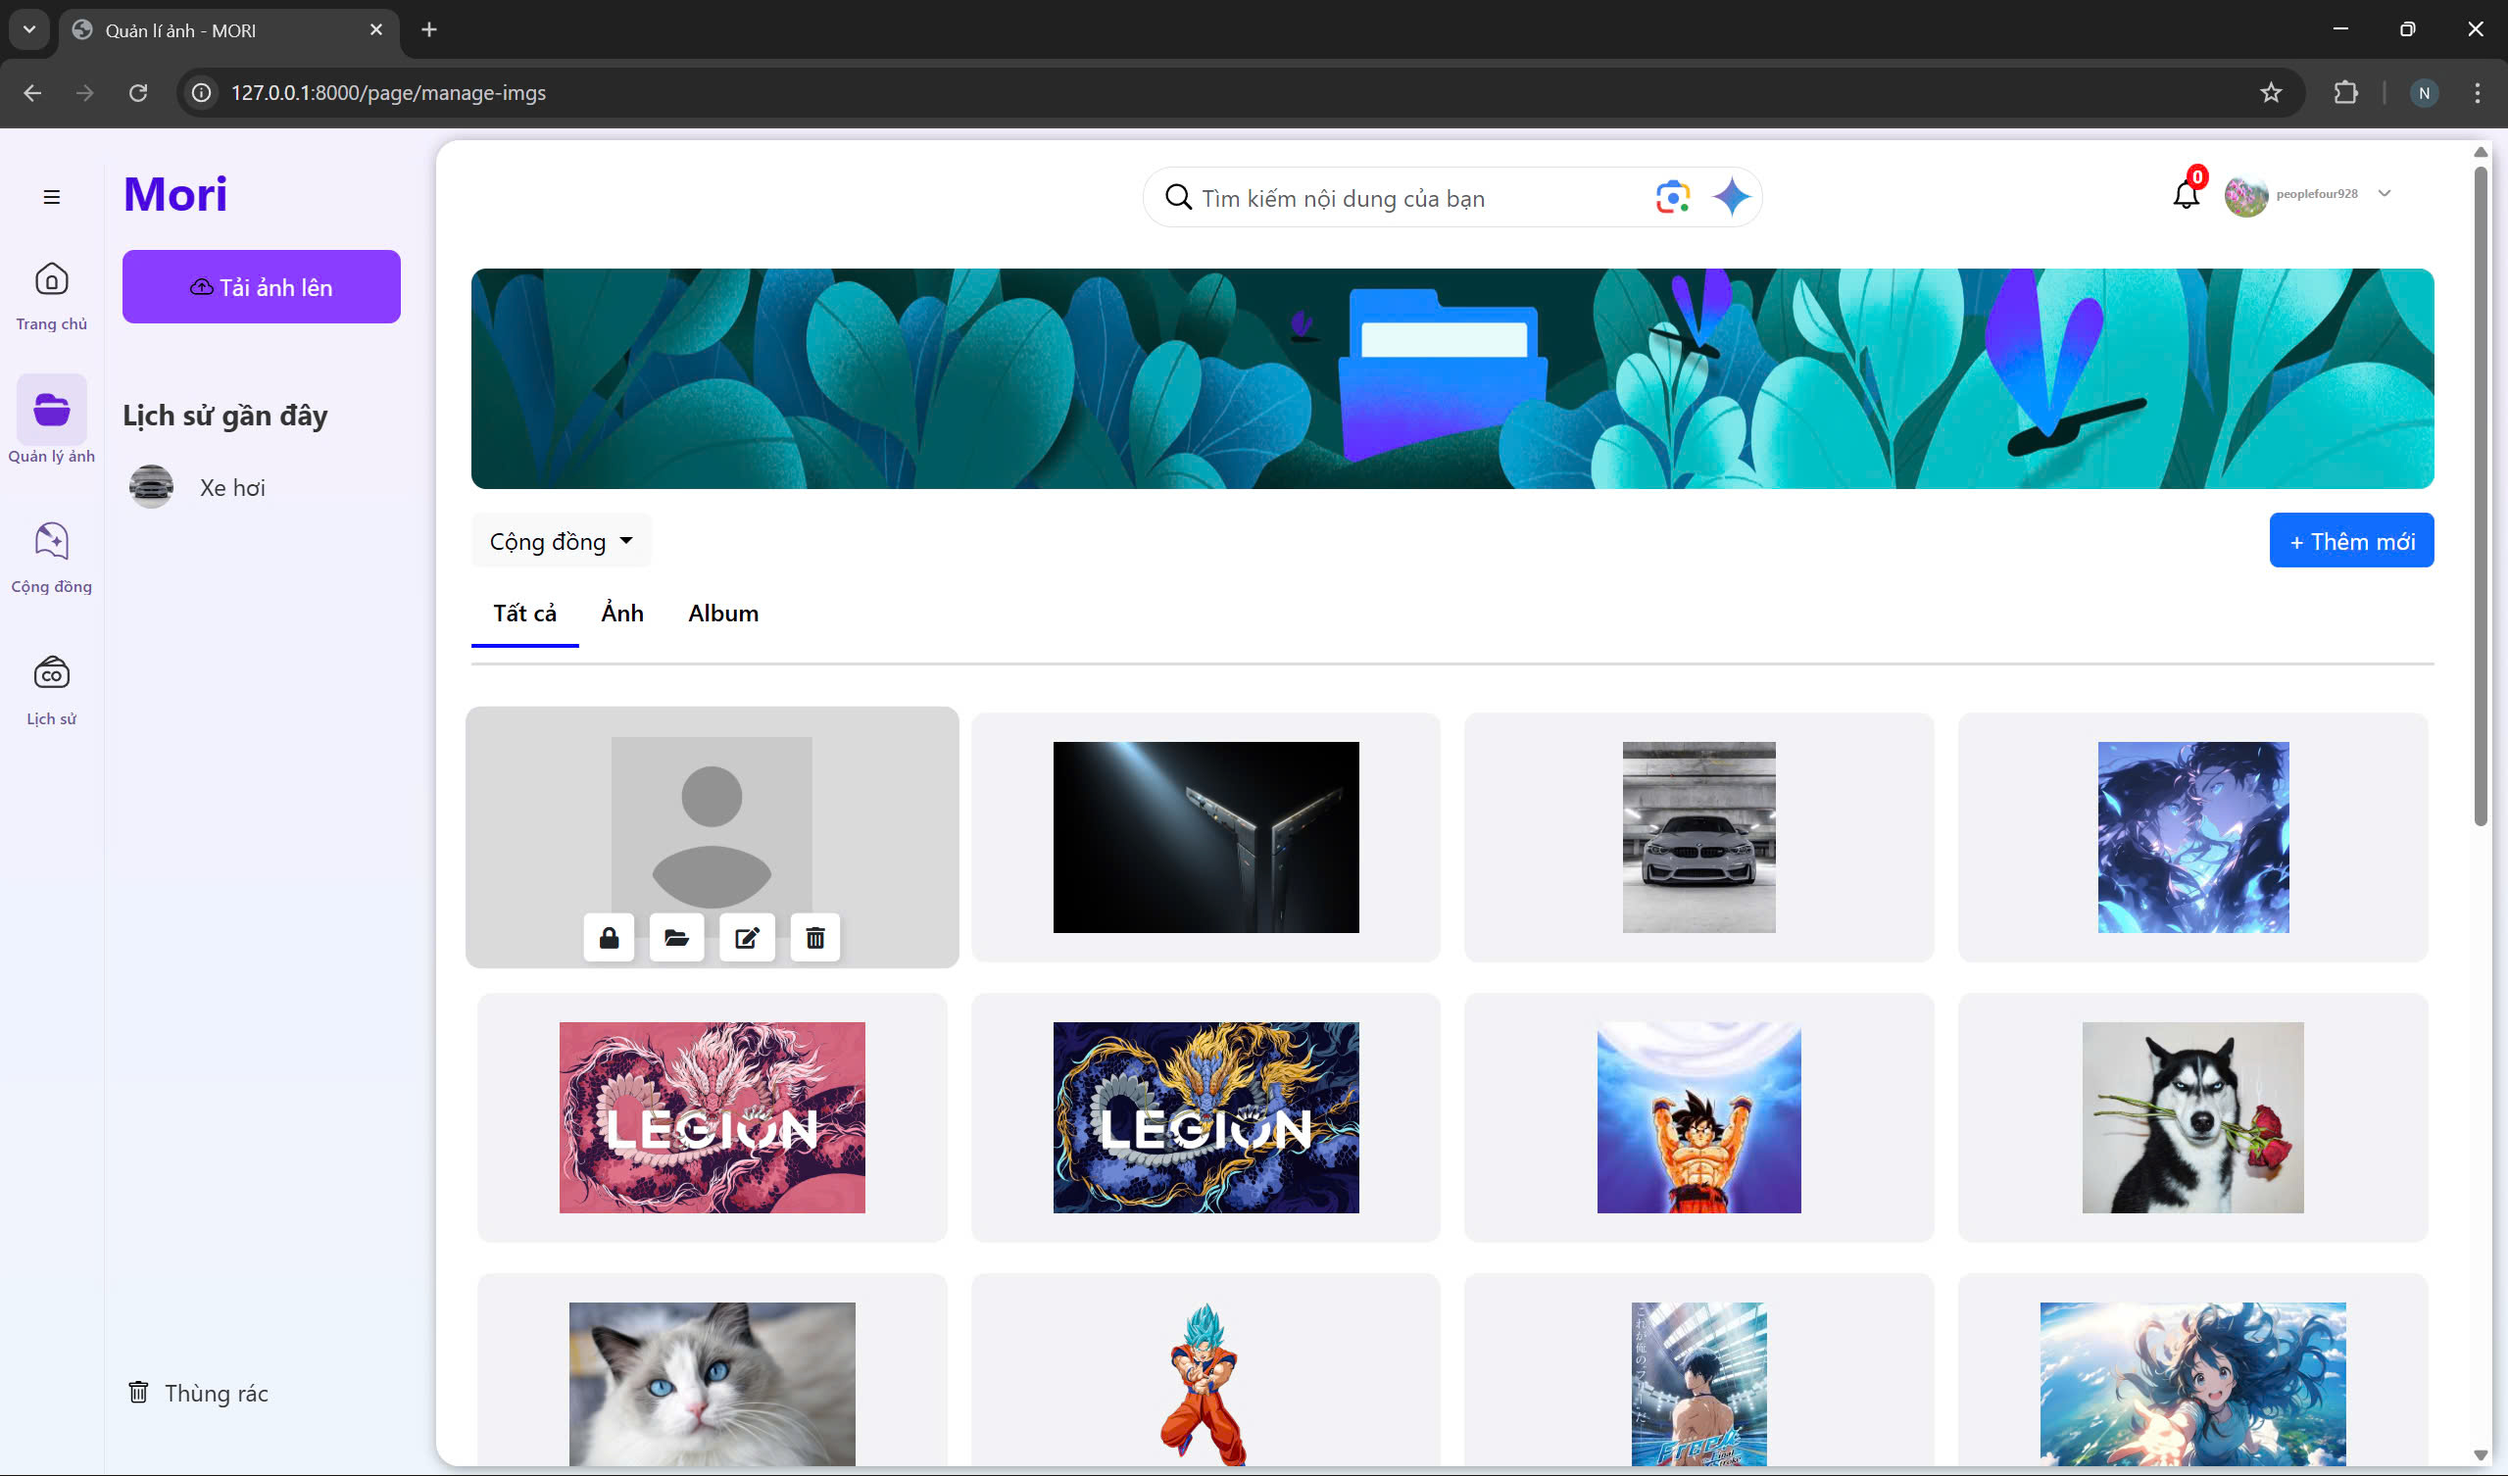
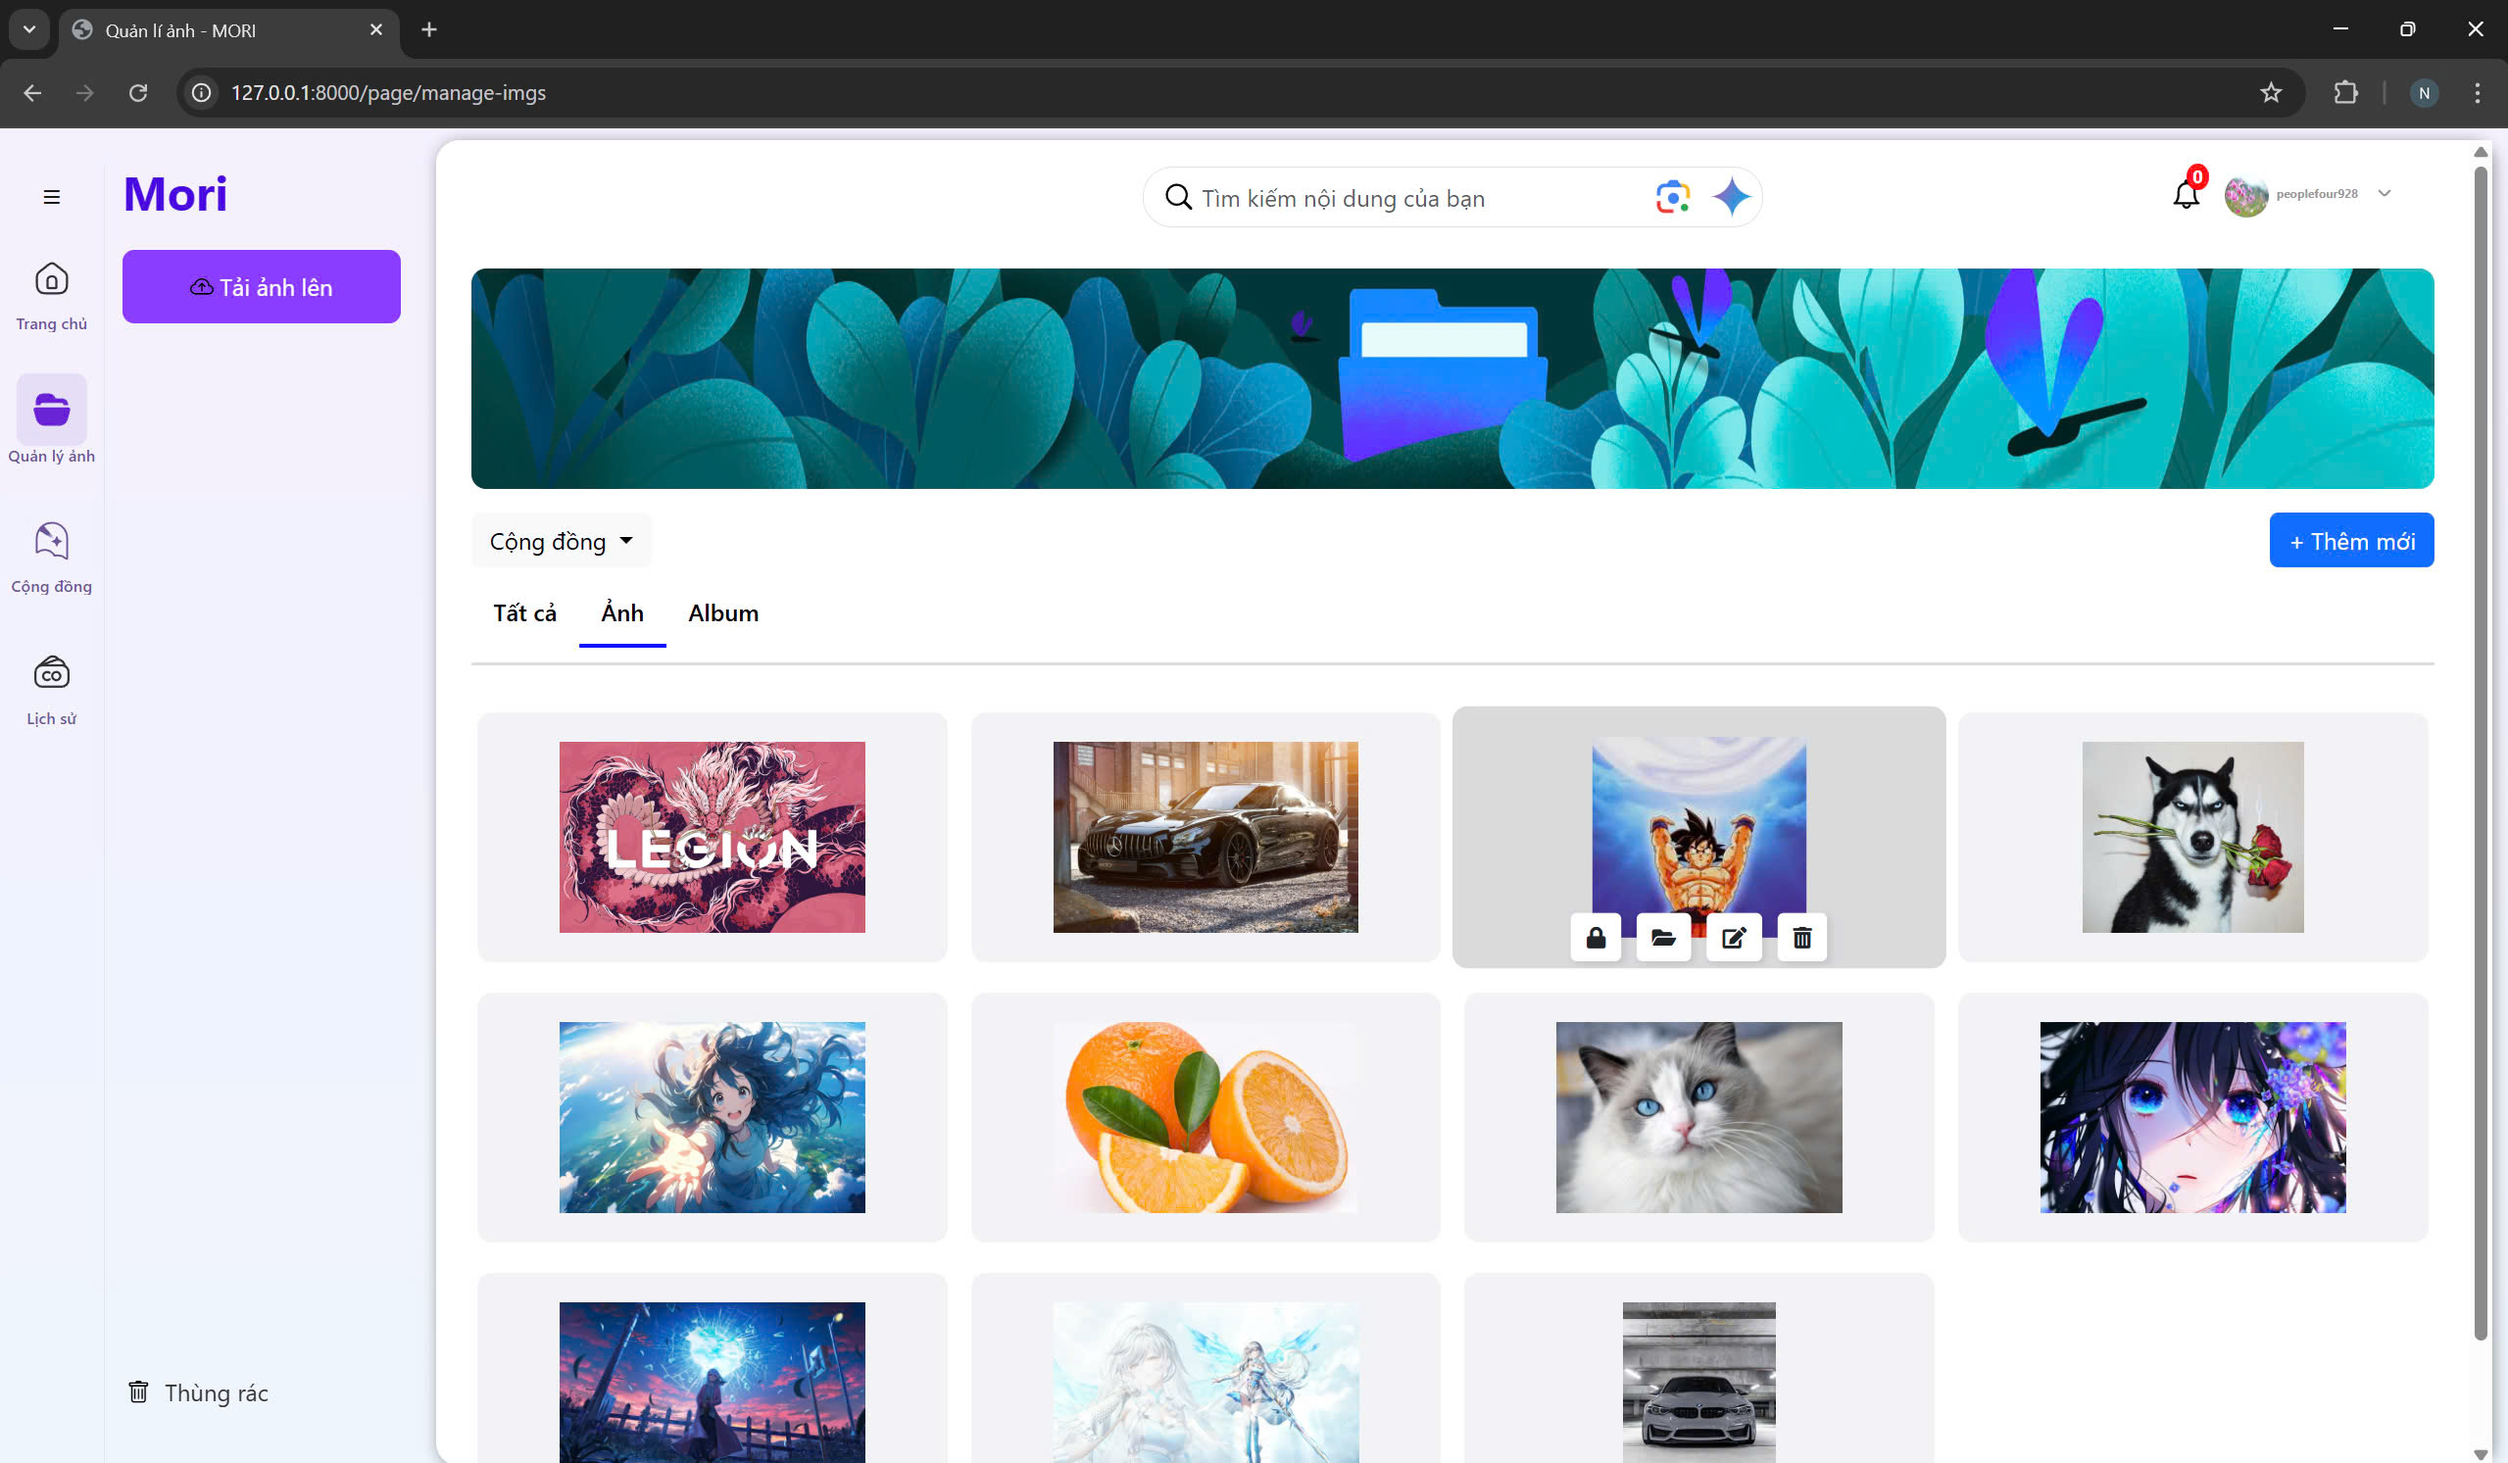
update readme add image

diff --git a/README.md b/README.md
@@ -96,19 +96,140 @@ docker compose up -d --build
 ---
 
 ## Screenshots
-1. Các giao diện chính: đăng nhập, đăng ký, landing page, quên mật khẩu, trang cá nhân
-<div align="center"> <figure style="display: inline-block; margin: 10px;"> <img src="./images/landing_pages.jpg" width="250px"> <figcaption>Landing Page</figcaption> </figure> <figure style="display: inline-block; margin: 10px;"> <img src="./images/login.jpg" width="250px"> <figcaption>Đăng nhập</figcaption> </figure> <figure style="display: inline-block; margin: 10px;"> <img src="./images/register.jpg" width="250px"> <figcaption>Đăng ký</figcaption> </figure> </div> <div align="center"> <figure style="display: inline-block; margin: 10px;"> <img src="./images/quen_mat_khau.jpg" width="250px"> <figcaption>Quên mật khẩu</figcaption> </figure> <figure style="display: inline-block; margin: 10px;"> <img src="./images/trang_ca_nhan.jpg" width="250px"> <figcaption>Trang cá nhân</figcaption> </figure> </div>
-2. Tổng quan trang chủ
-<div align="center"> <figure> <img src="./images/home_after_login.jpg" width="90%"> <figcaption>Trang chủ sau khi đăng nhập</figcaption> </figure> </div>
-3. Quản lý ảnh
-<div align="center"> <figure> <img src="./images/quan_ly_anh.jpg" width="90%"> <figcaption>Giao diện quản lý ảnh</figcaption> </figure> </div>
-4. Quản lý album
-<div align="center"> <figure style="display: inline-block; margin: 10px;"> <img src="./images/quan_ly_album.jpg" width="300px"> <figcaption>Danh sách album</figcaption> </figure> <figure style="display: inline-block; margin: 10px;"> <img src="./images/quan_ly_album_tao_album.jpg" width="300px"> <figcaption>Tạo album mới</figcaption> </figure> </div> 
-5. Quản lý thùng rác
-<div align="center"> <figure> <img src="./images/thung_rac.jpg" width="90%"> <figcaption>Thùng rác – quản lý ảnh đã xóa</figcaption> </figure> </div>
-6. Tìm kiếm thông thường/AI, quản lý lịch sử tìm kiếm
-<div align="center"> <figure style="display: inline-block; margin: 10px;"> <img src="./images/tim_kiem_thong_thuong.jpg" width="250px"> <figcaption>Tìm kiếm thông thường</figcaption> </figure> <figure style="display: inline-block; margin: 10px;"> <img src="./images/tim_kiem_bang_ai.jpg" width="250px"> <figcaption>Tìm kiếm bằng AI</figcaption> </figure> <figure style="display: inline-block; margin: 10px;"> <img src="./images/lich_su_tim_kiem.jpg" width="250px"> <figcaption>Lịch sử tìm kiếm</figcaption> </figure> </div>
-7. Tương tác cộng đồng (thích, bình luận, thông báo)
-<div align="center"> <figure style="display: inline-block; margin: 10px;"> <img src="./images/tuong_tac_cong_dong.jpg" width="250px"> <figcaption>Danh sách bài đăng</figcaption> </figure> <figure style="display: inline-block; margin: 10px;"> <img src="./images/cmt_replycmt_like.jpg" width="250px"> <figcaption>Bình luận, trả lời, thích</figcaption> </figure> <figure style="display: inline-block; margin: 10px;"> <img src="./images/thong_bao.jpg" width="250px"> <figcaption>Thông báo tương tác</figcaption> </figure> </div>
-8. Quản lý thông tin chung
-<div align="center"> <figure style="display: inline-block; margin: 10px;"> <img src="./images/dashboard_admin.jpg" width="250px"> <figcaption>Dashboard Admin</figcaption> </figure> <figure style="display: inline-block; margin: 10px;"> <img src="./images/quan_ly_nguoi_dung_admin.jpg" width="250px"> <figcaption>Quản lý người dùng</figcaption> </figure> <figure style="display: inline-block; margin: 10px;"> <img src="./images/quan_ly_bai_dang_admin.jpg" width="250px"> <figcaption>Quản lý bài đăng</figcaption> </figure> </div>
+
+### 1. Các giao diện chính: đăng nhập, đăng ký, landing page, quên mật khẩu, trang cá nhân
+
+<div align="center">
+  <figure style="display: inline-block; margin: 10px;">
+    <img src="./images/landing_pages.jpg" width="250px">
+    <figcaption style="color: gray; font-style: italic;">Landing Page</figcaption>
+  </figure>
+  <figure style="display: inline-block; margin: 10px;">
+    <img src="./images/login.jpg" width="250px">
+    <figcaption style="color: gray; font-style: italic;">Đăng nhập</figcaption>
+  </figure>
+  <figure style="display: inline-block; margin: 10px;">
+    <img src="./images/register.jpg" width="250px">
+    <figcaption style="color: gray; font-style: italic;">Đăng ký</figcaption>
+  </figure>
+</div>
+
+<div align="center">
+  <figure style="display: inline-block; margin: 10px;">
+    <img src="./images/quen_mat_khau.jpg" width="250px">
+    <figcaption style="color: gray; font-style: italic;">Quên mật khẩu</figcaption>
+  </figure>
+  <figure style="display: inline-block; margin: 10px;">
+    <img src="./images/trang_ca_nhan.jpg" width="250px">
+    <figcaption style="color: gray; font-style: italic;">Trang cá nhân</figcaption>
+  </figure>
+</div>
+
+---
+
+### 2. Tổng quan trang chủ
+
+<div align="center">
+  <figure>
+    <img src="./images/home_after_login.jpg" width="90%">
+    <figcaption style="color: gray; font-style: italic;">Trang chủ sau khi đăng nhập</figcaption>
+  </figure>
+</div>
+
+---
+
+### 3. Quản lý ảnh
+
+<div align="center">
+  <figure style="display: inline-block; margin: 10px;">
+    <img src="./images/quan_ly_album_vs_anh.jpg" width="300px">
+    <figcaption style="color: gray; font-style: italic;">Tổng quan ảnh và album</figcaption>
+  </figure>
+  <figure style="display: inline-block; margin: 10px;">
+    <img src="./images/quan_ly_anh.jpg" width="300px">
+    <figcaption style="color: gray; font-style: italic;">Giao diện quản lý ảnh</figcaption>
+  </figure>
+</div>
+
+---
+
+### 4. Quản lý album
+
+<div align="center">
+  <figure style="display: inline-block; margin: 10px;">
+    <img src="./images/quan_ly_album.jpg" width="300px">
+    <figcaption style="color: gray; font-style: italic;">Danh sách album</figcaption>
+  </figure>
+  <figure style="display: inline-block; margin: 10px;">
+    <img src="./images/quan_ly_album_tao_album.jpg" width="300px">
+    <figcaption style="color: gray; font-style: italic;">Tạo album mới</figcaption>
+  </figure>
+</div>
+
+---
+
+### 5. Quản lý thùng rác
+
+<div align="center">
+  <figure>
+    <img src="./images/thung_rac.jpg" width="90%">
+    <figcaption style="color: gray; font-style: italic;">Thùng rác – quản lý ảnh đã xóa</figcaption>
+  </figure>
+</div>
+
+---
+
+### 6. Tìm kiếm thông thường/AI, quản lý lịch sử tìm kiếm
+
+<div align="center">
+  <figure style="display: inline-block; margin: 10px;">
+    <img src="./images/tim_kiem_thong_thuong.jpg" width="250px">
+    <figcaption style="color: gray; font-style: italic;">Tìm kiếm thông thường</figcaption>
+  </figure>
+  <figure style="display: inline-block; margin: 10px;">
+    <img src="./images/tim_kiem_bang_ai.jpg" width="250px">
+    <figcaption style="color: gray; font-style: italic;">Tìm kiếm bằng AI</figcaption>
+  </figure>
+  <figure style="display: inline-block; margin: 10px;">
+    <img src="./images/lich_su_tim_kiem.jpg" width="250px">
+    <figcaption style="color: gray; font-style: italic;">Lịch sử tìm kiếm</figcaption>
+  </figure>
+</div>
+
+---
+
+### 7. Tương tác cộng đồng (thích, bình luận, thông báo)
+
+<div align="center">
+  <figure style="display: inline-block; margin: 10px;">
+    <img src="./images/tuong_tac_cong_dong.jpg" width="250px">
+    <figcaption style="color: gray; font-style: italic;">Danh sách bài đăng</figcaption>
+  </figure>
+  <figure style="display: inline-block; margin: 10px;">
+    <img src="./images/cmt_replycmt_like.jpg" width="250px">
+    <figcaption style="color: gray; font-style: italic;">Bình luận, trả lời, thích</figcaption>
+  </figure>
+  <figure style="display: inline-block; margin: 10px;">
+    <img src="./images/thong_bao.jpg" width="250px">
+    <figcaption style="color: gray; font-style: italic;">Thông báo tương tác</figcaption>
+  </figure>
+</div>
+
+---
+
+### 8. Quản lý thông tin chung
+
+<div align="center">
+  <figure style="display: inline-block; margin: 10px;">
+    <img src="./images/dashboard_admin.jpg" width="250px">
+    <figcaption style="color: gray; font-style: italic;">Dashboard Admin</figcaption>
+  </figure>
+  <figure style="display: inline-block; margin: 10px;">
+    <img src="./images/quan_ly_nguoi_dung_admin.jpg" width="250px">
+    <figcaption style="color: gray; font-style: italic;">Quản lý người dùng</figcaption>
+  </figure>
+  <figure style="display: inline-block; margin: 10px;">
+    <img src="./images/quan_ly_bai_dang_admin.jpg" width="250px">
+    <figcaption style="color: gray; font-style: italic;">Quản lý bài đăng</figcaption>
+  </figure>
+</div>
